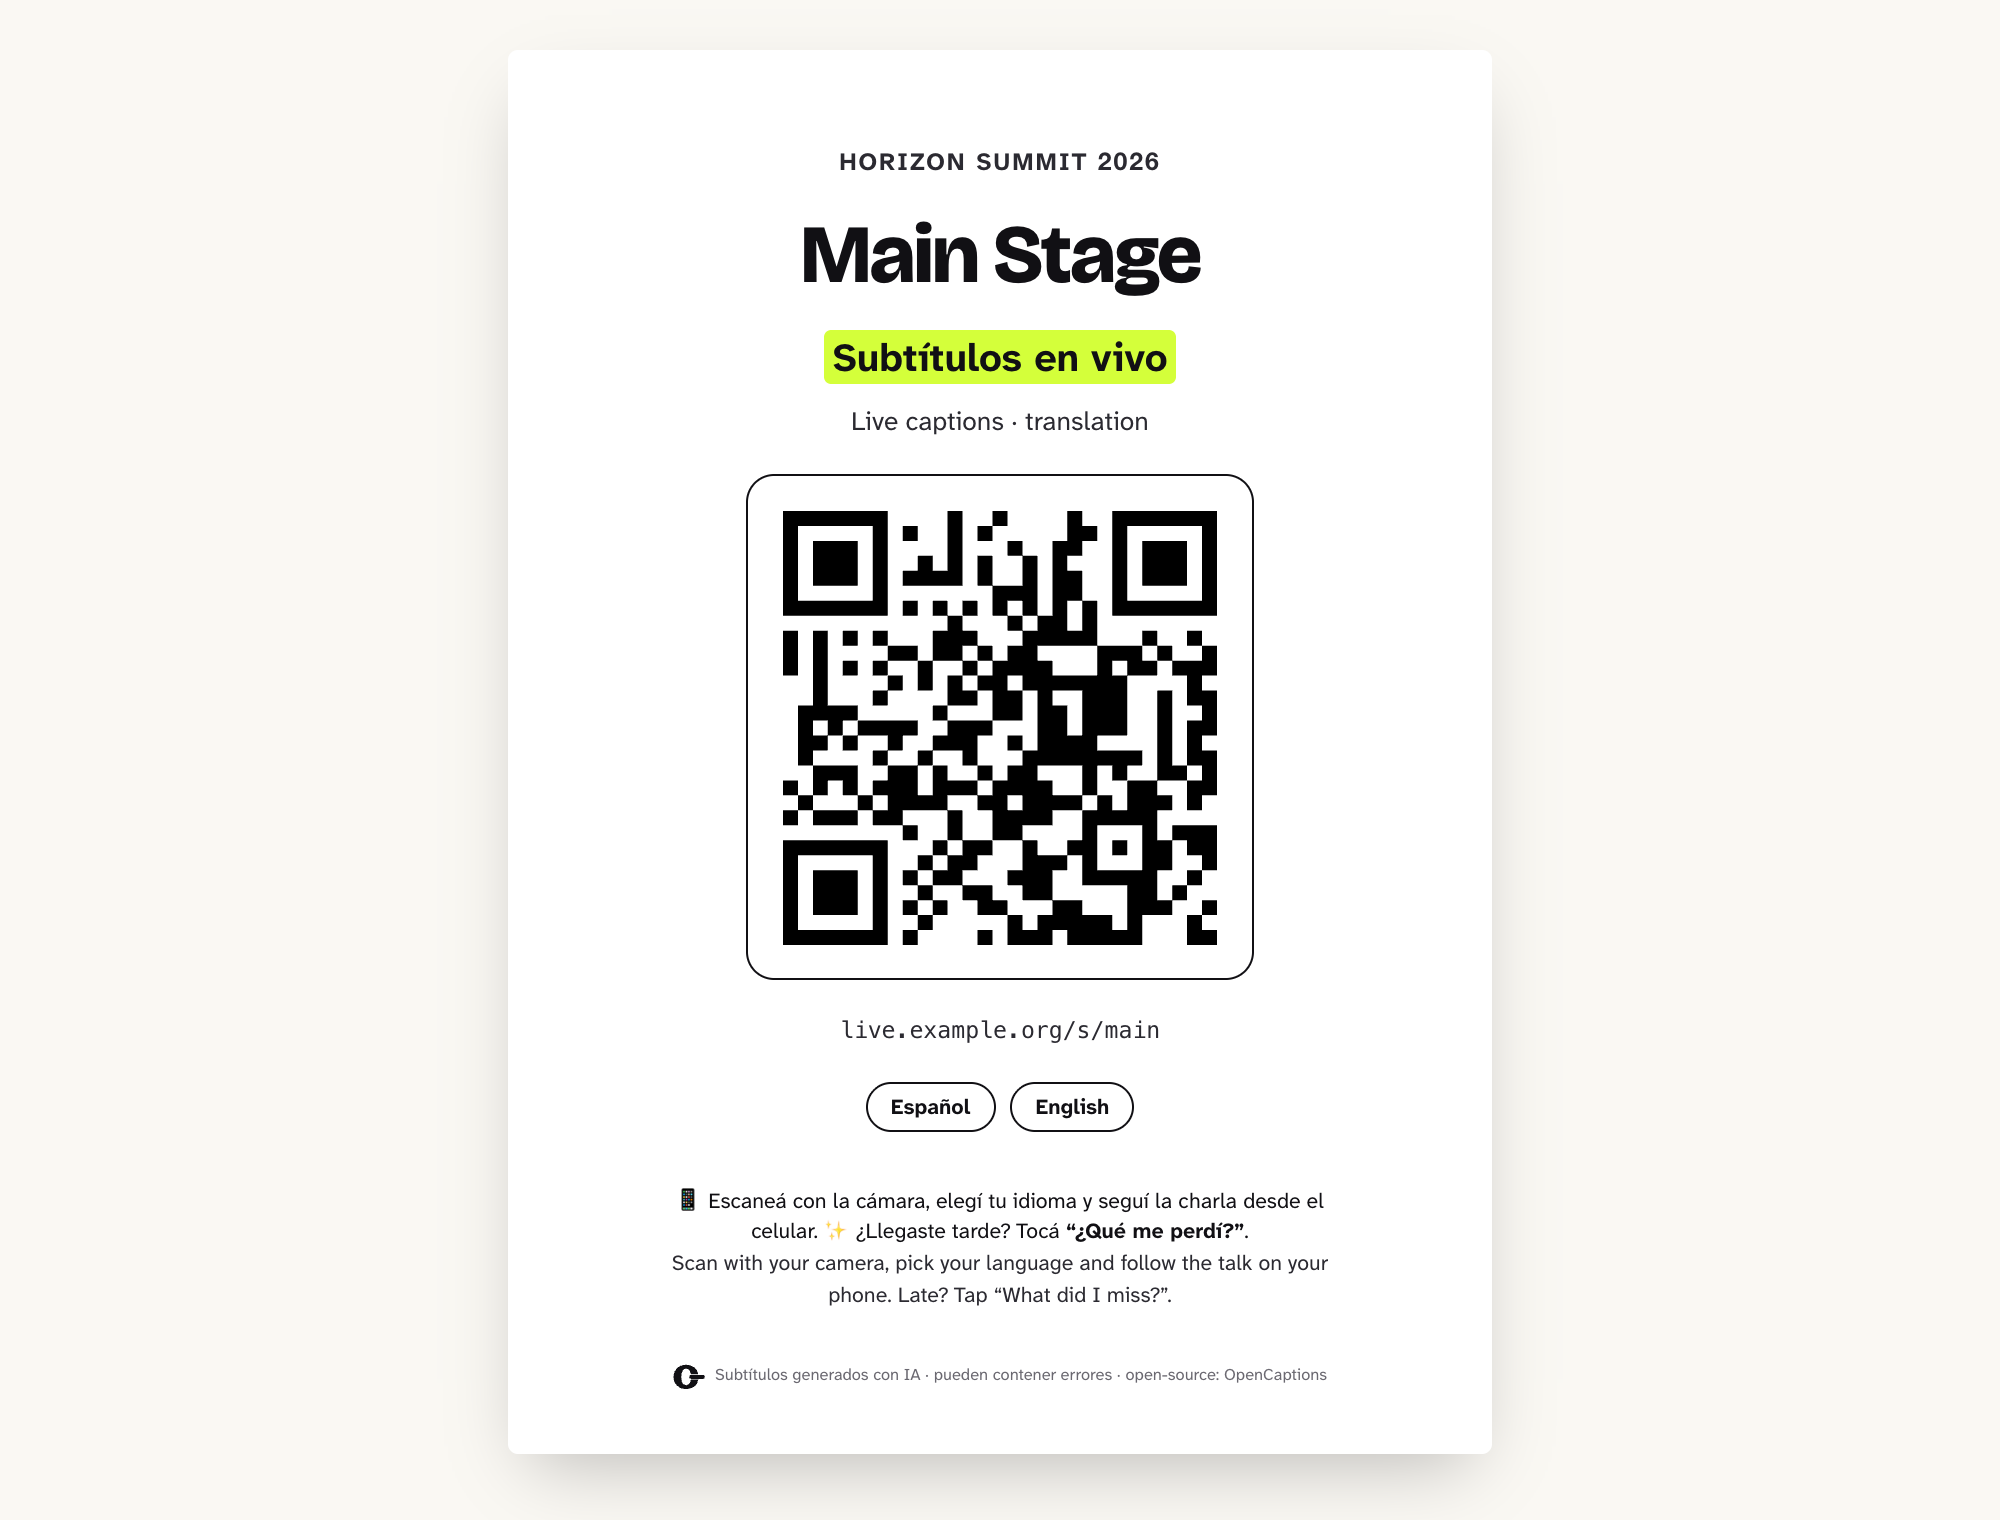
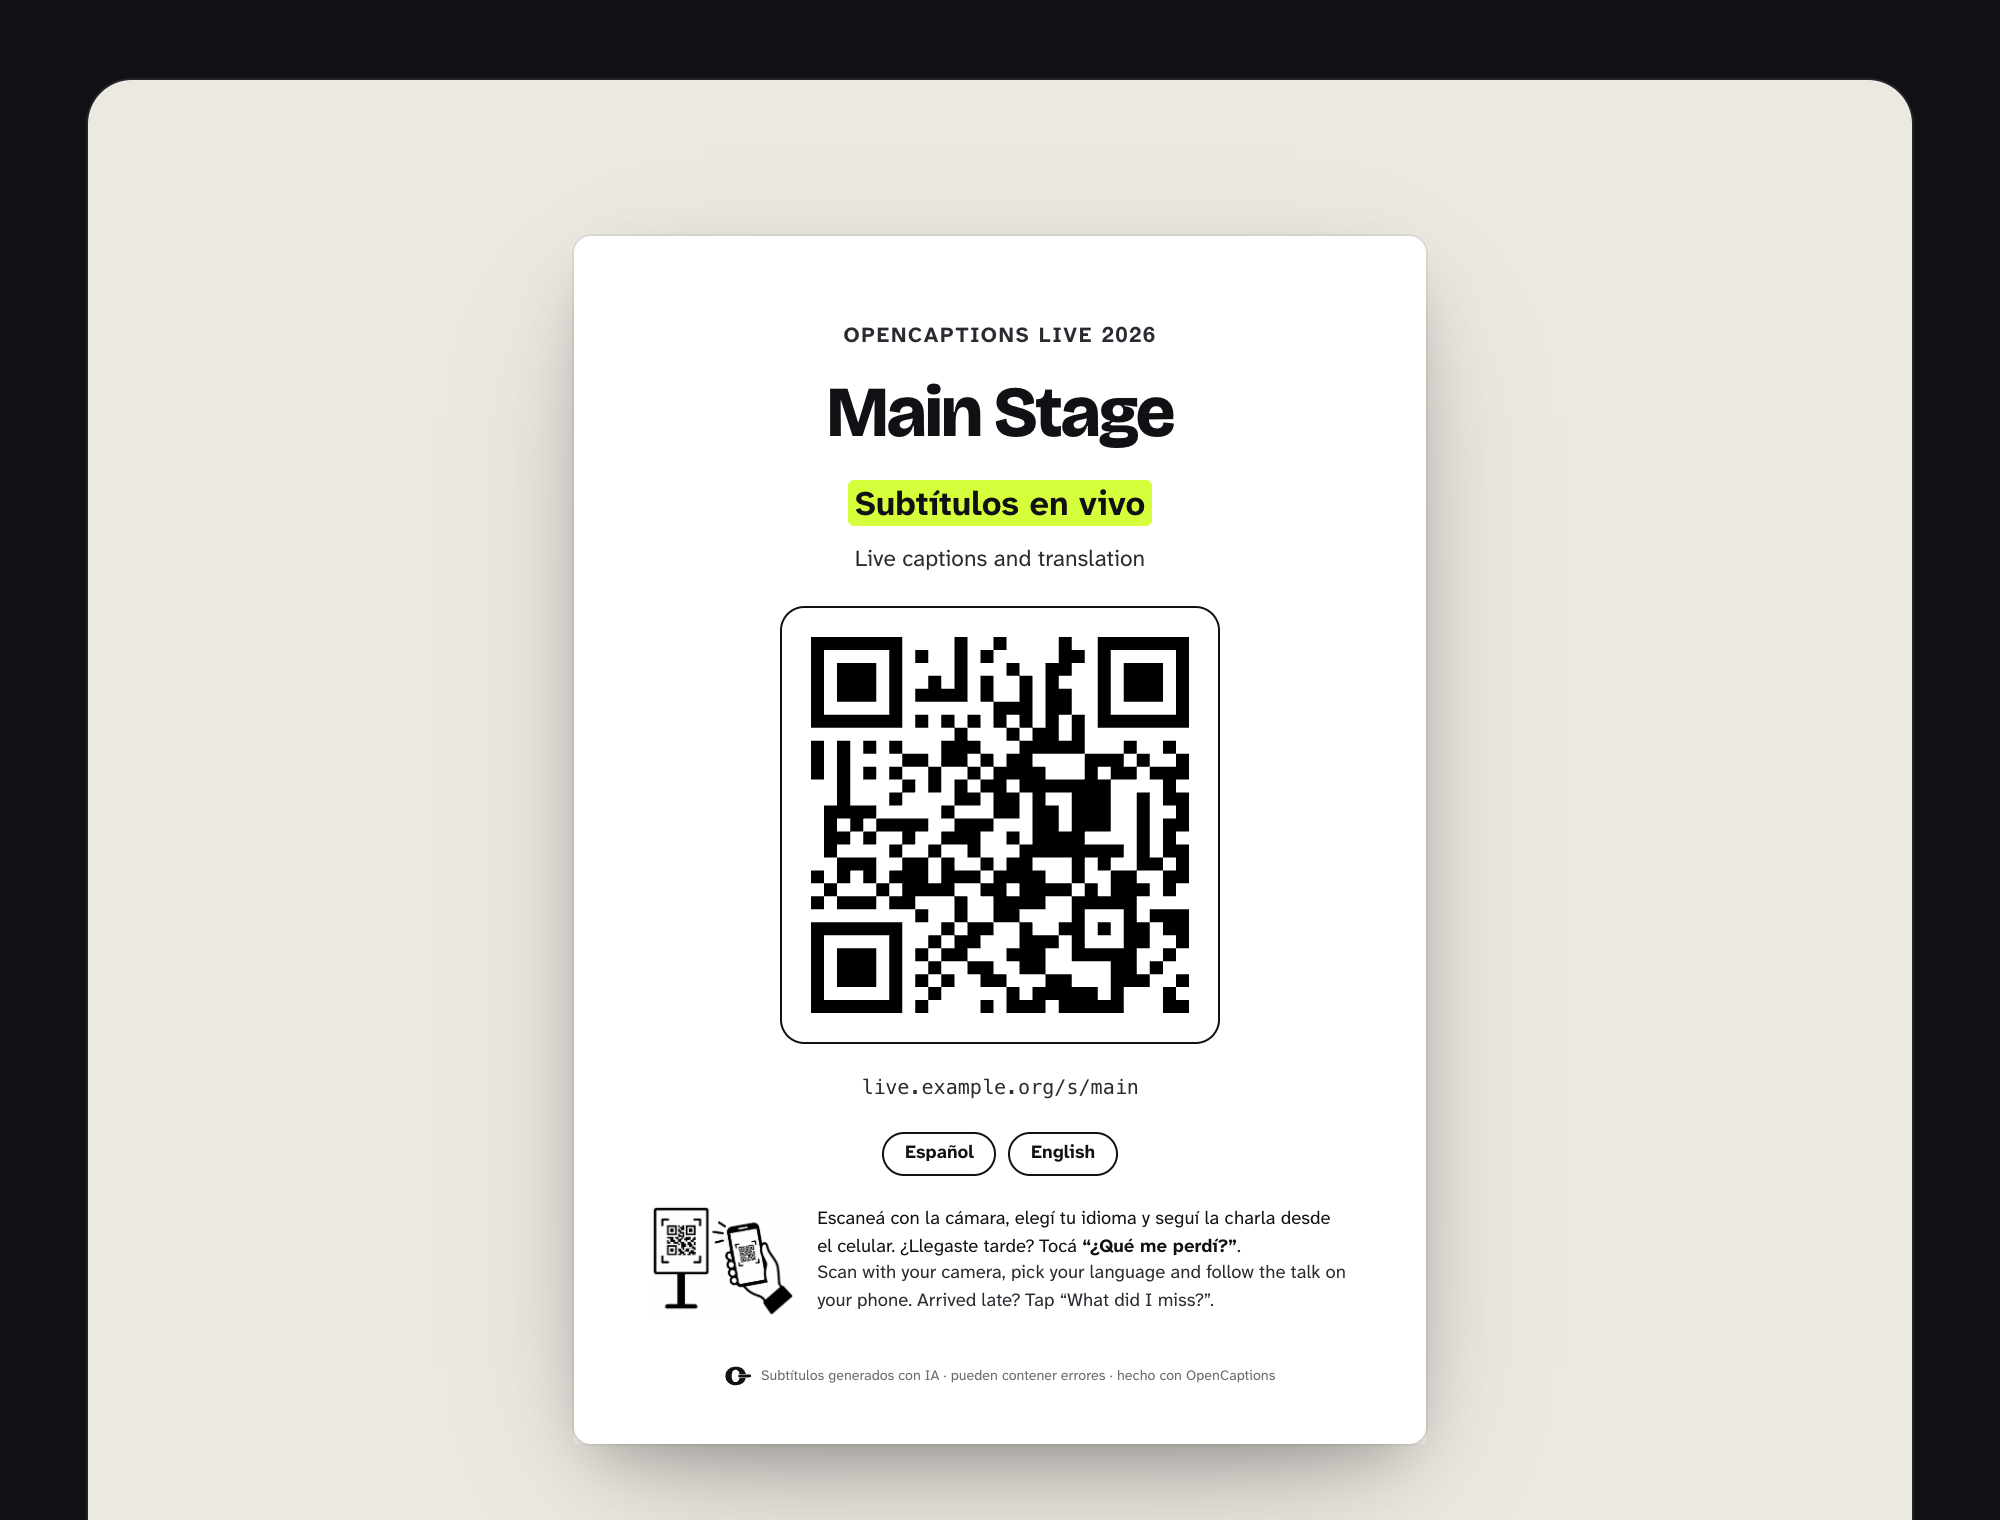
README for 1.0: the new picture with the headline at the top, a line on what's new in 1.0 (and in the Spanish section, with the live demo), screenshots of the real app with the new example event, and a QR poster made by the screenshot script instead of by hand. The link preview and GitHub's social p

diff --git a/scripts/screenshots.js b/scripts/screenshots.js
@@ -33,6 +33,12 @@ const SHOTS = {
       document.head.append(duo);` },
   transcript: { url: '/talk.html?stage=main&lang=es', width: 1080, height: 675, theme: 'light',
     prep: `document.getElementById('q').value = 'clínicas'; document.getElementById('q').dispatchEvent(new Event('input'));` },
+  // The main room's A4 poster alone, centred, as it prints (bilingual: Spanish with English underneath).
+  kit: { url: '/kit.html?stage=main&ui=es', width: 1000, height: 760, theme: 'light',
+    prep: `const p = document.querySelector('.sheet'); p.querySelector('figcaption')?.remove(); document.body.replaceChildren(p);
+      const k = document.createElement('style');
+      k.textContent = 'body { background: #ECE9E1 !important; margin: 0; display: grid; place-items: center; min-height: 100vh; } .sheet { margin: 0; zoom: 1.28; box-shadow: 0 20px 60px -20px rgba(17,16,20,.35); }';
+      document.head.append(k);` },
 };
 const wanted = process.argv.slice(2).filter((a) => !a.startsWith('-'));
 const shots = Object.entries(SHOTS).filter(([n]) => !wanted.length || wanted.includes(n));

diff --git a/README.md b/README.md
@@ -1,11 +1,6 @@
 <div align="center">
 
-<picture>
-  <source media="(prefers-color-scheme: dark)" srcset="docs/images/logo-lockup-dark.png" />
-  <img src="docs/images/logo-lockup-light.png" width="420" alt="OpenCaptions" />
-</picture>
-
-### Every talk, understood by everyone.
+<img src="docs/images/hero.png" width="920" alt="OpenCaptions. Every talk, understood by everyone. An illustration of a conference: the big screen shows the live caption, and people in the audience read it on their phones in Spanish and French." />
 
 Live captions and translation for conferences, classrooms, town halls and any event with a microphone.<br>
 On every phone, on the big screen and in your livestream. Free and open source.
@@ -18,7 +13,7 @@ On every phone, on the big screen and in your livestream. Free and open source.
 
 **[Try it live on your phone](https://try-opencaptions.kvza.ar/s/main)** (nothing to install) · [Website](https://opencaptions.kvza.ar) · [Download](#quick-start) · [Features](#features) · [Pricing](#what-it-costs) · [Docs](#documentation) · [En español](#en-español)
 
-<img src="docs/images/hero.png" width="920" alt="A livestream with bilingual captions on screen, next to a phone showing live captions of the same talk in Spanish" />
+**New in 1.0:** the slide on every phone in its reader's language, any word explained in plain words, and one question answered across the whole event. [What's new](CHANGELOG.md#100---2026-10-29)
 
 </div>
 
@@ -41,7 +36,7 @@ Not running an event? Choose **Just for me** the first time you open the app, an
 | **Stage screen** | **QR poster** | **Caption style editor** |
 | ![Full-screen captions next to the stage, with a QR code](docs/images/projector.png) | ![Printable A4 poster with the room's QR code](docs/images/kit.png) | ![Style editor with a live overlay preview](docs/images/style.png) |
 
-<sub>Shown in demo mode, which uses the same interface with simulated captions.</sub>
+<sub>The real app captioning the sample talk, with the AI's answers replayed from a recording (`npm run screenshots` makes them again).</sub>
 
 ## Quick start
 
@@ -209,6 +204,8 @@ All the docs, by who you are: **[docs/README.md](docs/README.md)**.
 - **En el escenario**, una pantalla con subtítulos grandes junto al orador y un overlay para OBS o vMix, en uno o dos idiomas.
 - **Para la organización**, un panel con el estado, la demora, el público y el costo de cada sala. Las salas funcionan solas y toman los títulos de la agenda. Para traducir podés usar Gemini u otra IA (OpenAI, OpenRouter, Groq, Mistral).
 - **Costo:** el software es gratis. Con Gemini, unos US$ 0,54 por hora de charla por sala (US$ 2,2 con voz traducida en auriculares; el silencio no se cobra). En modo local, nada: corre en tu propia computadora, no se sube audio y no se cobra por minuto.
+
+**Nuevo en la 1.0:** la diapositiva en el celular de cada persona, en su idioma; cualquier palabra explicada en palabras simples; y una pregunta respondida con todas las charlas del evento. Probalo en vivo desde el celular, sin instalar nada: [try-opencaptions.kvza.ar](https://try-opencaptions.kvza.ar/s/main).
 
 **Para empezar sin terminal:**
 

diff --git a/docs/launch/product-hunt.md b/docs/launch/product-hunt.md
@@ -4,7 +4,7 @@
 - **Tagline** (60 characters): `Live captions and translation for events, on every phone`
 - **Topics:** Accessibility, Open Source, Events, Artificial Intelligence
 - **Links:** the website, the live demo, GitHub
-- **Gallery** (in this order; the first is the thumbnail): `docs/images/hero.png`; the three phones from the website's "New in 1.0" (`site/media/screens/slide-en.webp`, `word-en.webp`, `ask-en.webp`, exported as PNG); `site/media/screens/dashboard.webp`; `site/media/screens/projector.webp`; the 60-second video ([demo-video.md](demo-video.md)).
+- **Gallery** (in this order; the first is the thumbnail): `docs/images/hero.png`; the three 1.0 phones from the website (`site/media/home/slide.webp`, `word-en.webp`, `ask-en.webp`, exported as PNG); `site/media/screens/dashboard.webp`; `site/media/screens/projector.webp`; the 60-second video ([demo-video.md](demo-video.md)).
 
 **Description:**
 
